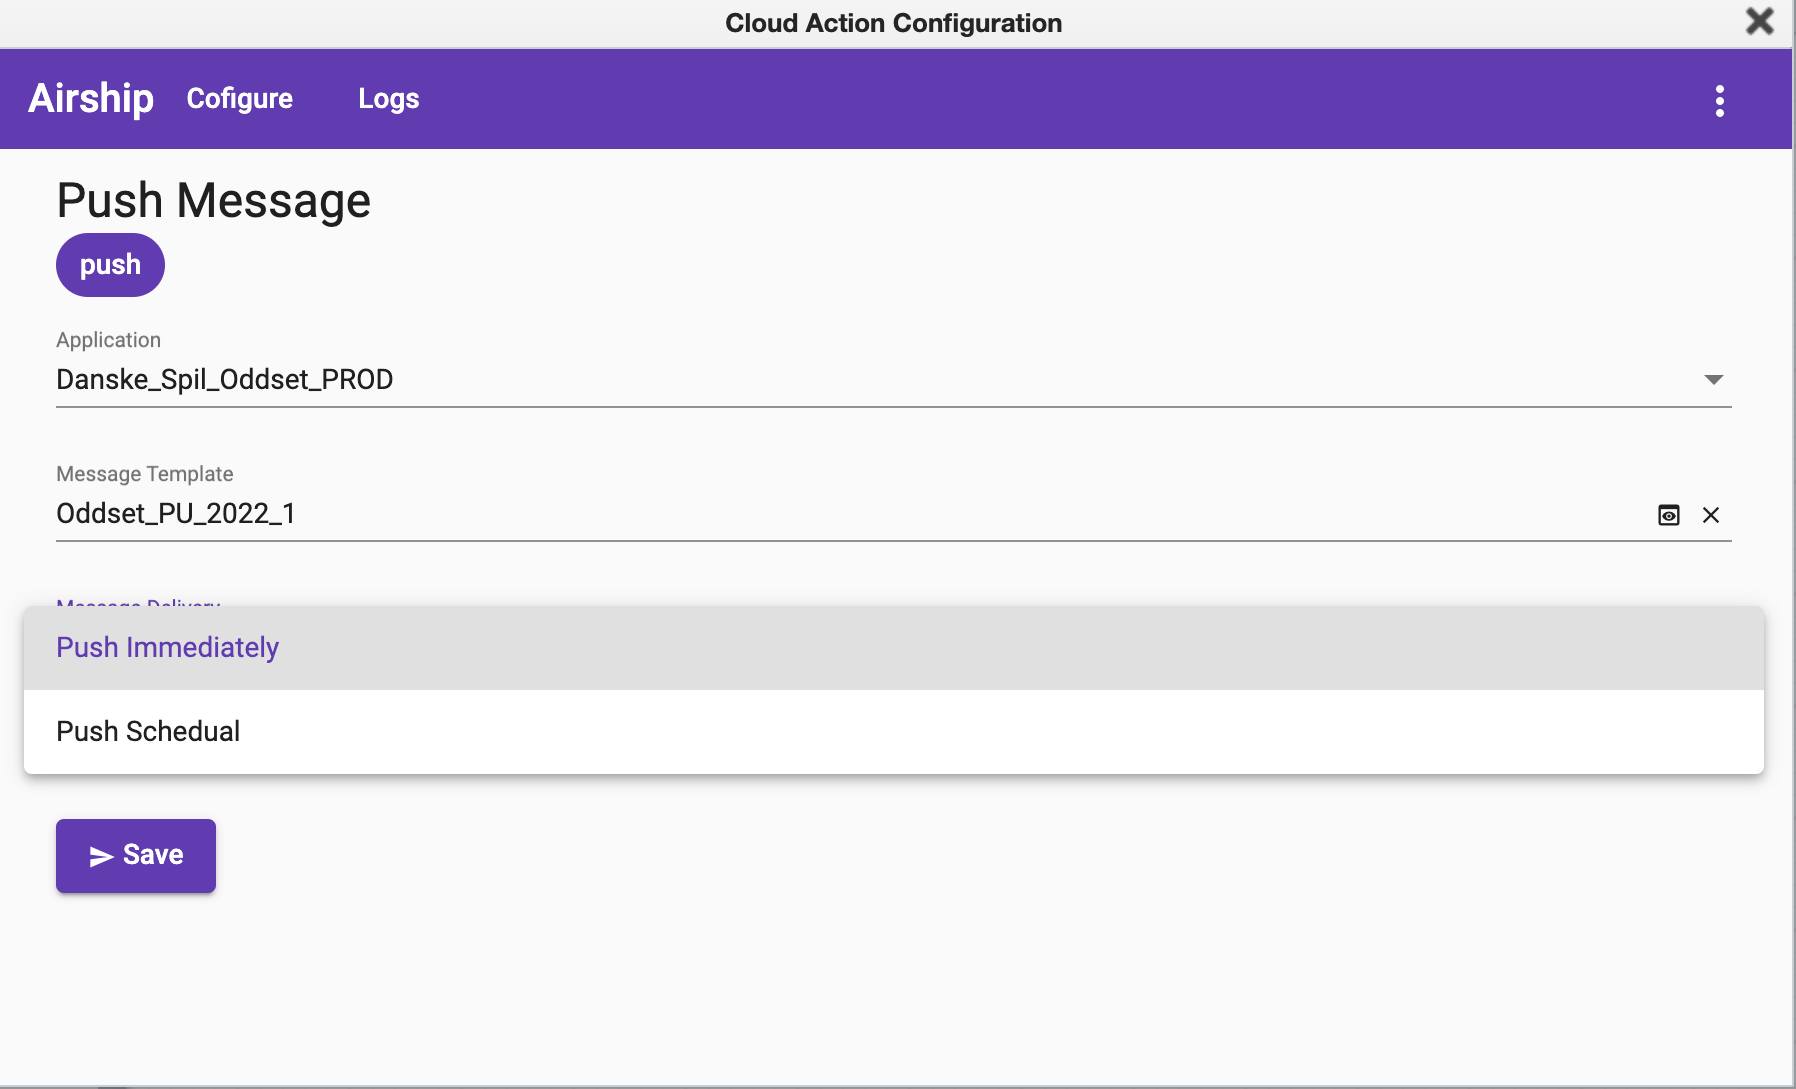
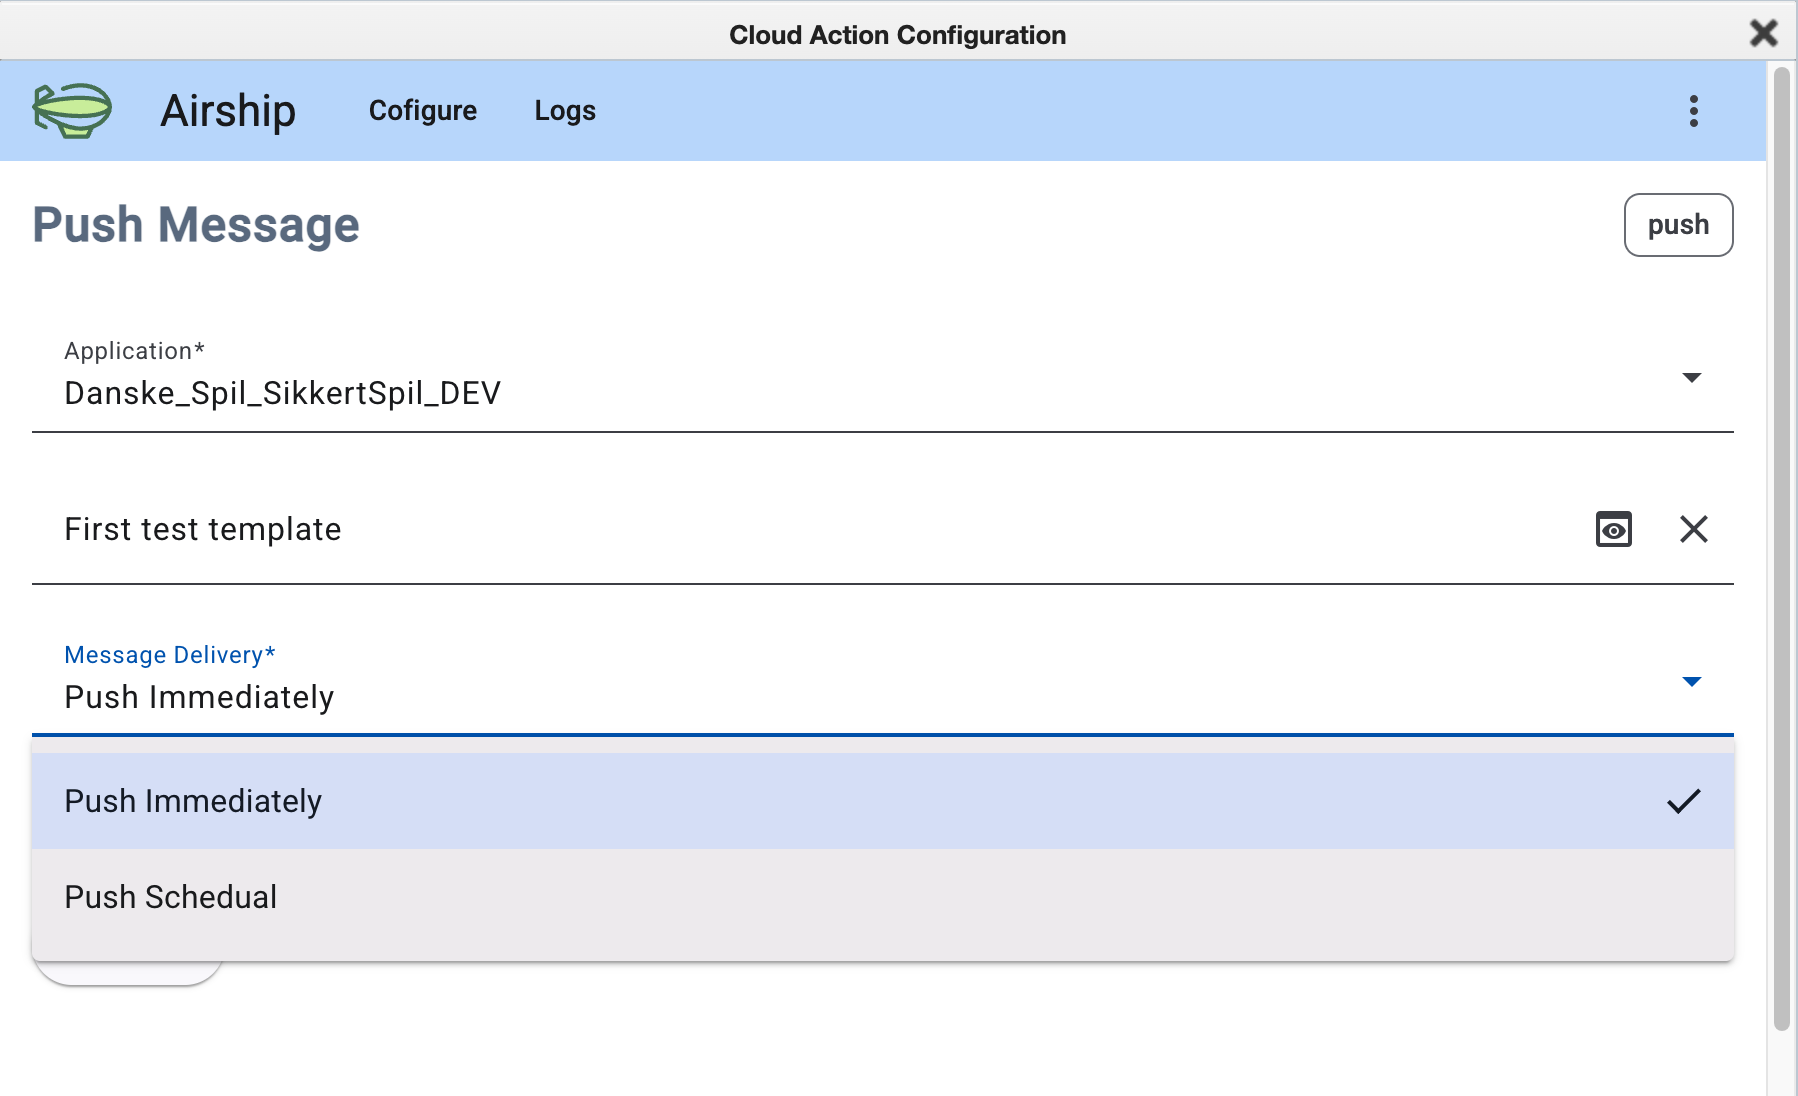
Replace screenshots with fresh Eloqua sandbox captures, add personalization feature

diff --git a/index.html b/index.html
@@ -88,8 +88,13 @@ title: "Airship × Eloqua Integration"
           </li>
         </ul>
       </div>
-      <div class="rounded-xl overflow-hidden shadow-2xl border border-slate-200">
-        <img src="/assets/images/campaign-canvas.png" alt="Airship step in Eloqua campaign canvas" class="w-full" />
+      <div class="space-y-4">
+        <div class="rounded-xl overflow-hidden shadow-2xl border border-slate-200">
+          <img src="/assets/images/campaign-canvas.png" alt="Airship step in Eloqua campaign canvas" class="w-full" />
+        </div>
+        <div class="rounded-xl overflow-hidden shadow-xl border border-slate-200">
+          <img src="/assets/images/configure-filled.png" alt="Push message configuration" class="w-full" />
+        </div>
       </div>
     </div>
 
@@ -173,6 +178,14 @@ title: "Airship × Eloqua Integration"
 
       <div class="p-6 rounded-xl border border-slate-200 hover:border-indigo-300 hover:shadow-md transition-all">
         <div class="w-10 h-10 rounded-lg bg-indigo-100 flex items-center justify-center mb-4">
+          <i class="fa-solid fa-user-tag text-indigo-600 text-lg"></i>
+        </div>
+        <h4 class="font-medium text-indigo-950 mb-2">Personalization</h4>
+        <p class="text-slate-500 text-sm leading-relaxed">Templates support merge fields mapped to Eloqua contact data — send each contact a message with their own name, city, or any custom field.</p>
+      </div>
+
+      <div class="p-6 rounded-xl border border-slate-200 hover:border-indigo-300 hover:shadow-md transition-all">
+        <div class="w-10 h-10 rounded-lg bg-indigo-100 flex items-center justify-center mb-4">
           <i class="fa-solid fa-chart-bar text-indigo-600 text-lg"></i>
         </div>
         <h4 class="font-medium text-indigo-950 mb-2">Delivery logs</h4>
@@ -210,21 +223,28 @@ title: "Airship × Eloqua Integration"
         <div class="rounded-xl overflow-hidden shadow-lg border border-slate-200 group-hover:shadow-xl transition-shadow">
           <img src="/assets/images/delivery-type.png" alt="Delivery type selection" class="w-full" />
         </div>
-        <figcaption class="text-center text-sm text-slate-500 mt-3">Choose between immediate and scheduled delivery</figcaption>
+        <figcaption class="text-center text-sm text-slate-500 mt-3">Immediate or scheduled delivery</figcaption>
       </figure>
 
       <figure class="group">
         <div class="rounded-xl overflow-hidden shadow-lg border border-slate-200 group-hover:shadow-xl transition-shadow">
           <img src="/assets/images/scheduled-push.png" alt="Scheduled push with date and time" class="w-full" />
         </div>
-        <figcaption class="text-center text-sm text-slate-500 mt-3">Pick a date and time for scheduled sends</figcaption>
+        <figcaption class="text-center text-sm text-slate-500 mt-3">Scheduled send — date and time filled in</figcaption>
       </figure>
 
-      <figure class="group md:col-span-2">
+      <figure class="group">
         <div class="rounded-xl overflow-hidden shadow-lg border border-slate-200 group-hover:shadow-xl transition-shadow">
-          <img src="/assets/images/campaign-canvas.png" alt="Campaign canvas with Airship step" class="w-full" />
+          <img src="/assets/images/template-preview.png" alt="Template merge fields and push notification preview" class="w-full" />
         </div>
-        <figcaption class="text-center text-sm text-slate-500 mt-3">Airship step placed in the Eloqua campaign canvas</figcaption>
+        <figcaption class="text-center text-sm text-slate-500 mt-3">Template preview with personalization merge fields</figcaption>
+      </figure>
+
+      <figure class="group">
+        <div class="rounded-xl overflow-hidden shadow-lg border border-slate-200 group-hover:shadow-xl transition-shadow">
+          <img src="/assets/images/logs.png" alt="Notification delivery logs" class="w-full" />
+        </div>
+        <figcaption class="text-center text-sm text-slate-500 mt-3">Delivery log — status, success and failed counts</figcaption>
       </figure>
 
     </div>
